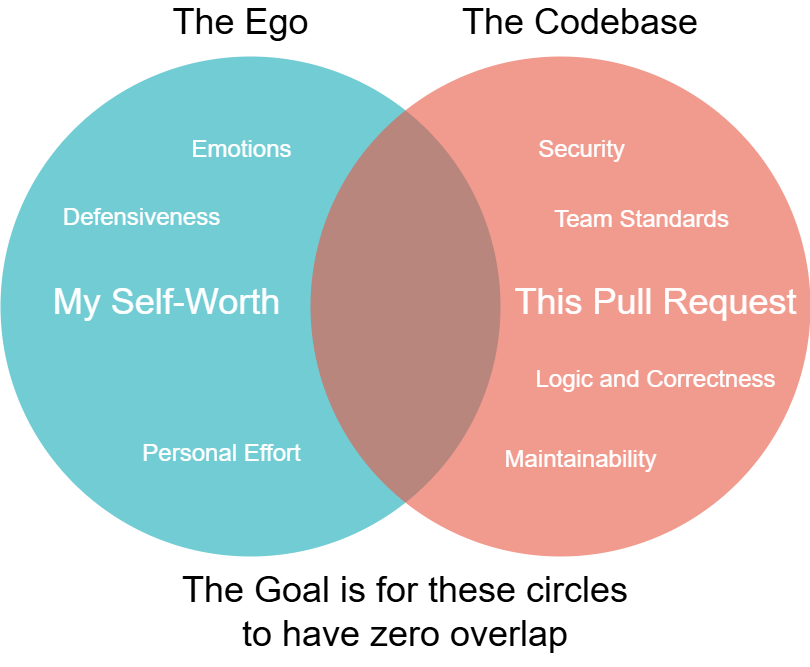
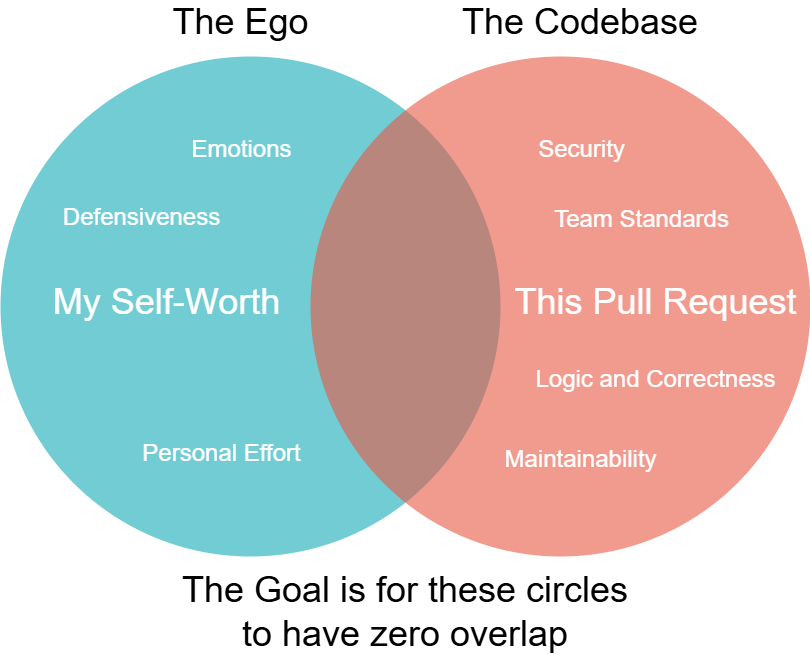
Adjusting for PR merge suggestions

diff --git a/articles/CodeReview.md b/articles/CodeReview.md
@@ -10,7 +10,7 @@ Code reviews are one of the easiest ways to improve code quality over time. They
 
 One of the biggest problems in code reviews is how easy it is to take comments personally. After spending hours solving a problem, even a small suggestion can feel more critical than it really is. That's usually where tension starts. A reviewer may only mean that a function is unclear, but the person receiving the comment can hear it as a judgment on their ability.
 
-The better way to look at it is that the pull request is not a reflection of your worth as a developer. It is just work being improved before it gets merged. In practice, this means not rushing to defend every decision and not treating a long list of comments like proof that you failed. Strong developers still get plenty of feedback. What matters more is how they respond to it. Someone who explains their reasoning, makes changes where needed, and stays open to discussion usually gets much more out of the process than someone who goes quiet or becomes defensive.
+The better way to look at it is that the pull request is not a reflection of your worth as a developer. It is just work being improved before it gets merged. In practice, this means not rushing to defend every decision and not treating a long list of comments like proof that you failed. Strong developers still get plenty of feedback. What matters more is how they respond to it. Someone who explains their reasoning, makes changes where needed, and stays open to discussion usually gets much more out of the process than someone who becomes defensive.
 
 ![Venn Diagram](../images/CR_VD.png)
 
@@ -30,7 +30,7 @@ The best balance usually comes from keeping reviews small and moving them quickl
 
 ## 4. Tools vs. Face-To-Face
 
-Code reviews are done through code review tools such as GitHub, which make the process easier for both the reviewer and the person who's code is being reviewed. Even with that convenience, there are times when it is better to step away from the tool and have a direct conversation about a pull request.
+Code reviews are done through tools such as GitHub, which make the process easier for both the reviewer and the person whose code is being reviewed. Even with that convenience, there are times when it is better to step away from the tool and have a direct conversation about a pull request.
 
 A standard code review usually involves a reviewer leaving comments, questions and requested changes on a pull request. The author will then address these comments, questions and push commits to address requests. The process then repeats if the reviewer does not find the changes adequate. This can leave a lot to be desired at times, as this can lead to long back-and-forths in the comments that increase the length of time it takes for code to get merged.
 
@@ -42,9 +42,9 @@ A good practice to avoid this is to reach out to the pull request poster before 
 
 Reviewers can be helpful to the author by providing code examples within comments.
 
-Helping to lighten the workload of the author helps immensely when trying to get a piece of code merged. This becomes especially true when a request made by the code reviewer can be difficult and time consuming to implement. If a request is made that significantly changes a class to fit an agreed upon standard set by the team, point the PR contributor to other classes in the codebase where this has been followed.
+Helping to lighten the workload of the author helps immensely when trying to get a piece of code merged. This becomes especially true when a request made by the code reviewer can be difficult and time consuming to implement. For example, if a request is made that significantly changes a class to fit an agreed upon standard set by the team, point the PR contributor to other classes in the codebase where this has been followed.
 
-There may be small chunks of code in a PR where a reviewer might raise concerns. It would be meaningful for that reviewer to leave a small code snippet to get a developer started on addressing a request. This keeps PRs moving along in the code review process and increases the speed at which a PR can be merged.
+There may be small chunks of code in a PR where a reviewer might raise concerns. It would be meaningful for that reviewer to leave a small code snippet to get a developer started on addressing a request. This keeps PRs moving along in the code review process and decreases the time it takes to merge a PR.
 
 ## Conclusion
 
